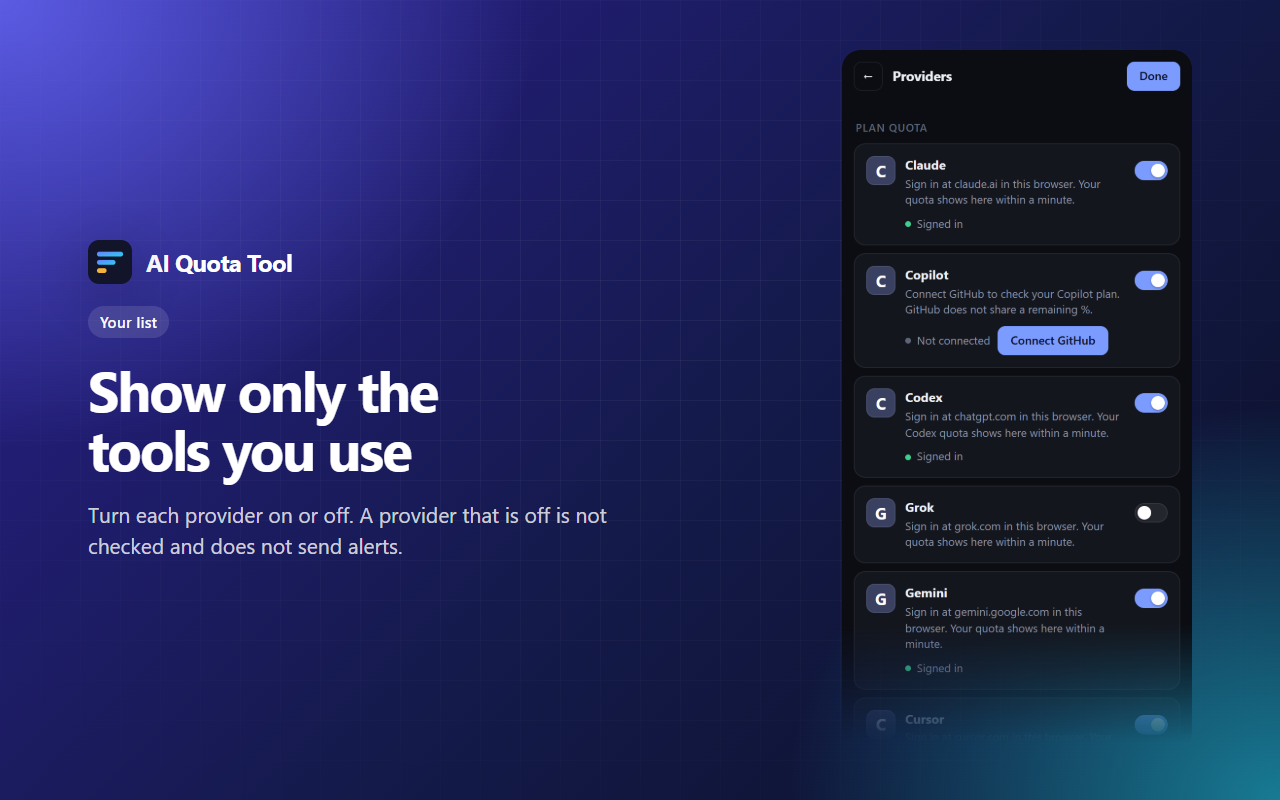
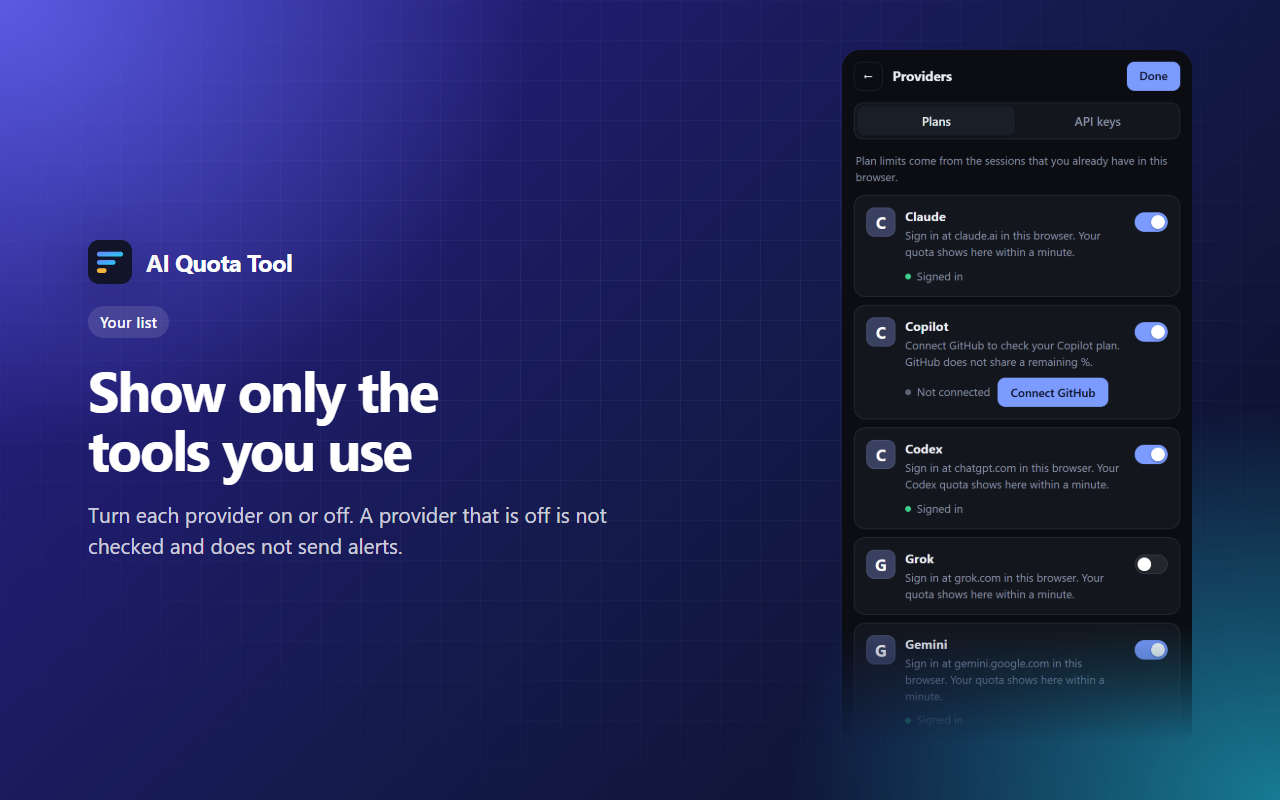
Add the API keys screenshot to the store assets
The store allows 5 screenshots. Shot 4 now shows the API keys tab instead of the light and dark themes.

- Seed 5 sample keys after the providers shot. They have no secret, so the worker never polls them.
- Capture the API keys tab as panels/keys-dark.png. Remove the unused light panel.
- Add the new key providers to the letter tiles, because store review flags third-party logos.
- Render all store art again. Shot 3 now shows the Plans tab of the new Providers screen.

diff --git a/packages/chrome-ext/store/art.html b/packages/chrome-ext/store/art.html
@@ -187,12 +187,10 @@
           ),
         shot4: () =>
           shot(
-            'Light and dark',
-            'Made to fit your browser',
-            'The panel follows your system theme. Clear bars show what is left and when it resets.',
-            panel('dashboard-light', 600) + panel('dashboard-dark', 600),
-            '',
-            440,
+            'API keys',
+            'Track each API key',
+            'Add many named keys for each provider. See the balance, the spend or the usage of each key.',
+            panel('keys-dark'),
           ),
         shot5: () =>
           shot(
